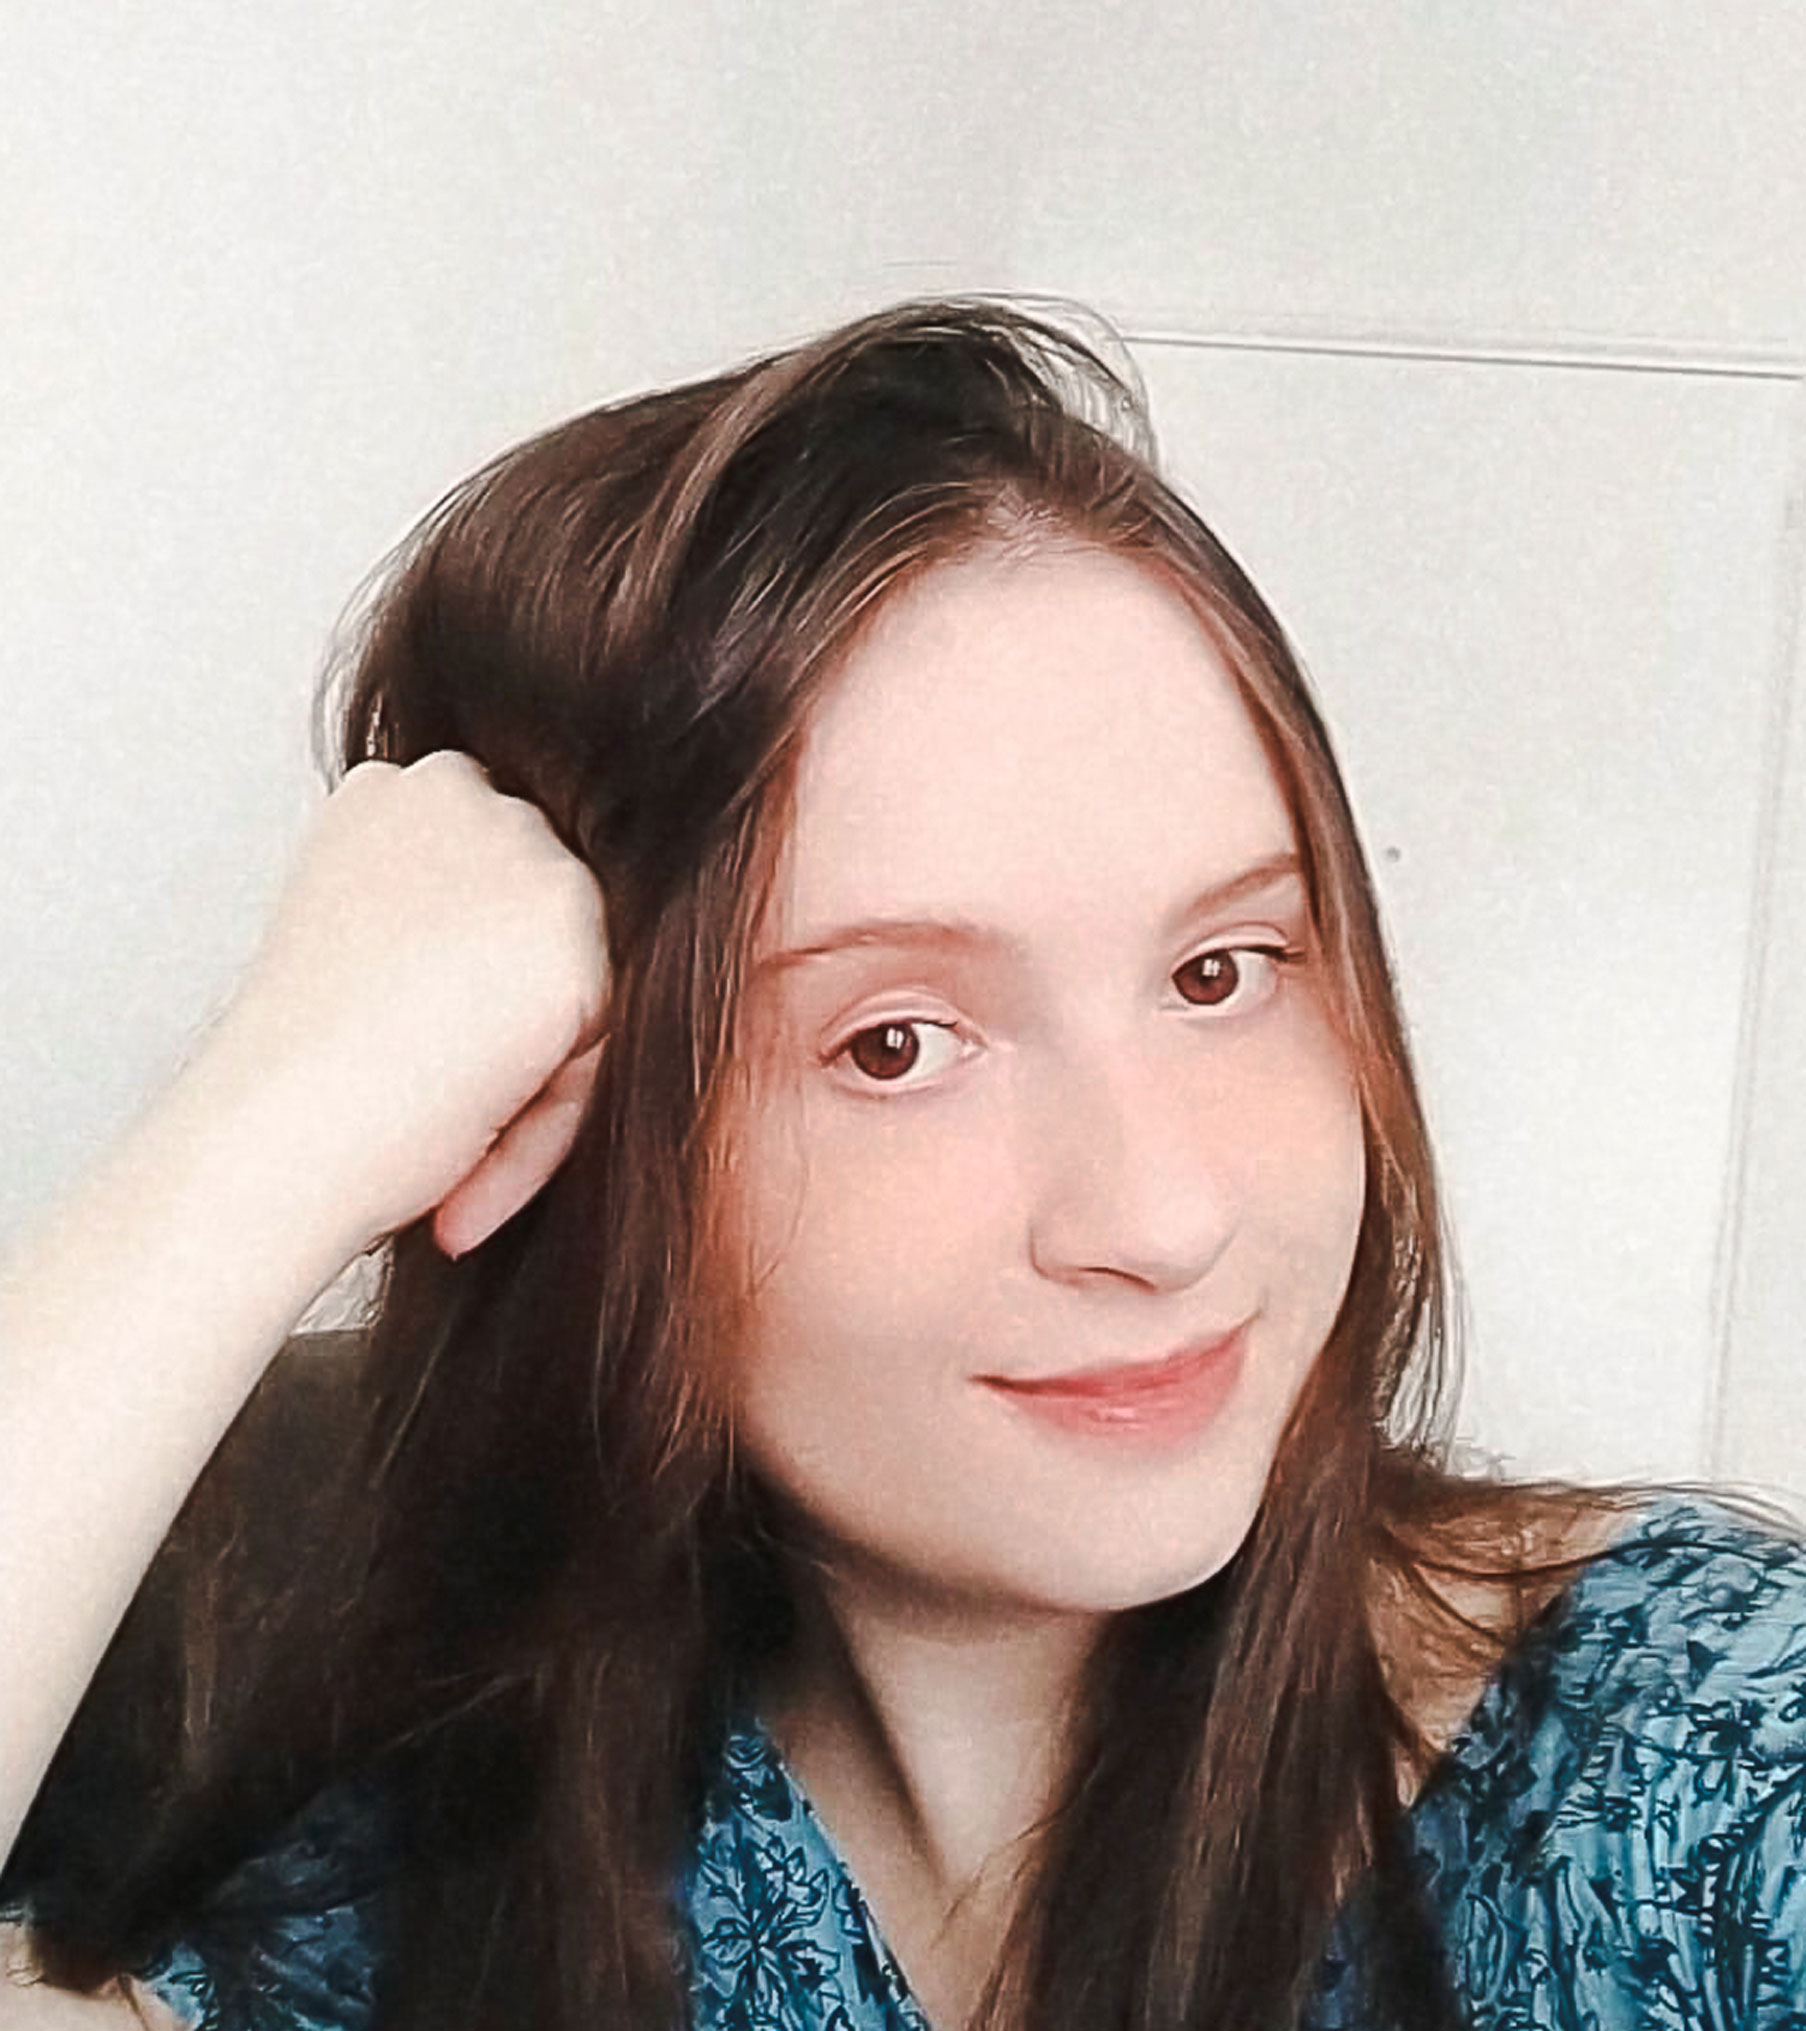
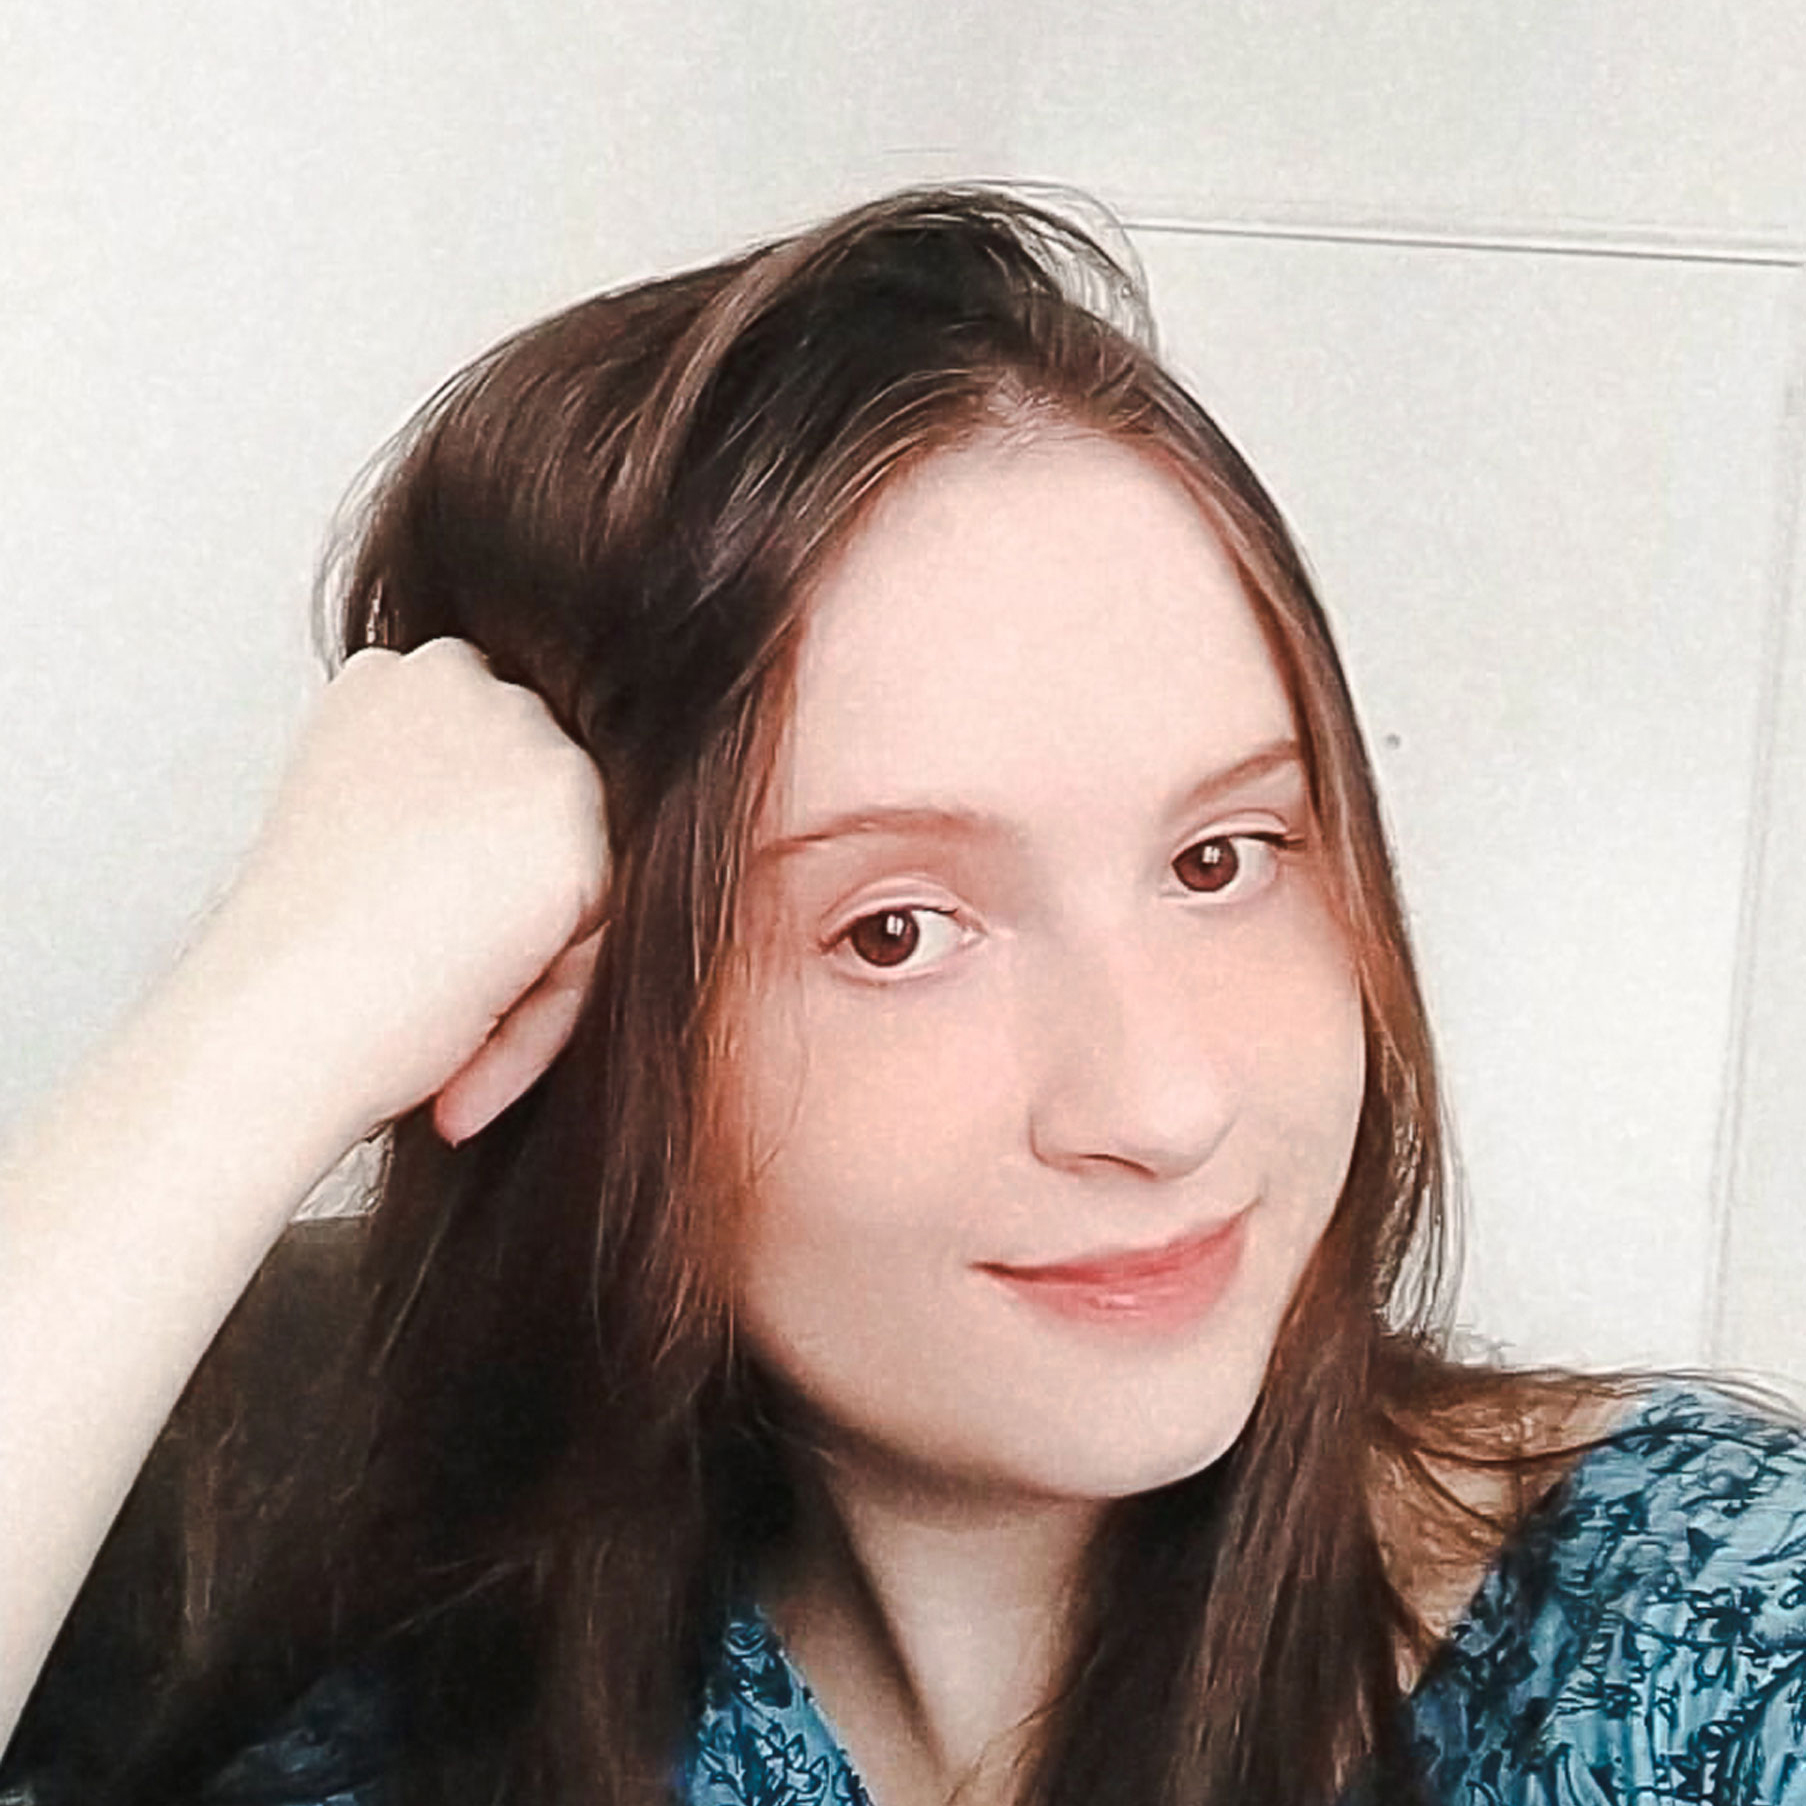
style: change image size

diff --git a/src/pages/about.tsx b/src/pages/about.tsx
@@ -17,7 +17,7 @@ export default function About() {
       <Main>
         <Image src="/images/logo/symbol-black.svg" alt="Simbolo" width={30} height={30} />
         <section>
-          <Image src="/images/photos/profile-2.jpg" alt="Eu" width={300} height={350} />
+          <Image src="/images/photos/profile-2.jpg" alt="Eu" width={350} height={350} />
           <article>
             <p>2019 foi um ano de mudanças na minha vida. Larguei meu emprego CLT em busca de trabalhar com o que me movia e que até então, era um risco, mas se eu quisesse uma mudança eu teria que enfrentar o desafio.</p>
             <p>O momento era vai ou racha! Bem… Eu fui. O friozinho na barriga de empreender veio junto,  noites mal dormidas pensando se tinha feito a coisa certa… Enfim, o grupo do <span>“medo”</span> estava ali comigo, mas eu fico feliz em ter tomado essa decisão.</p>
